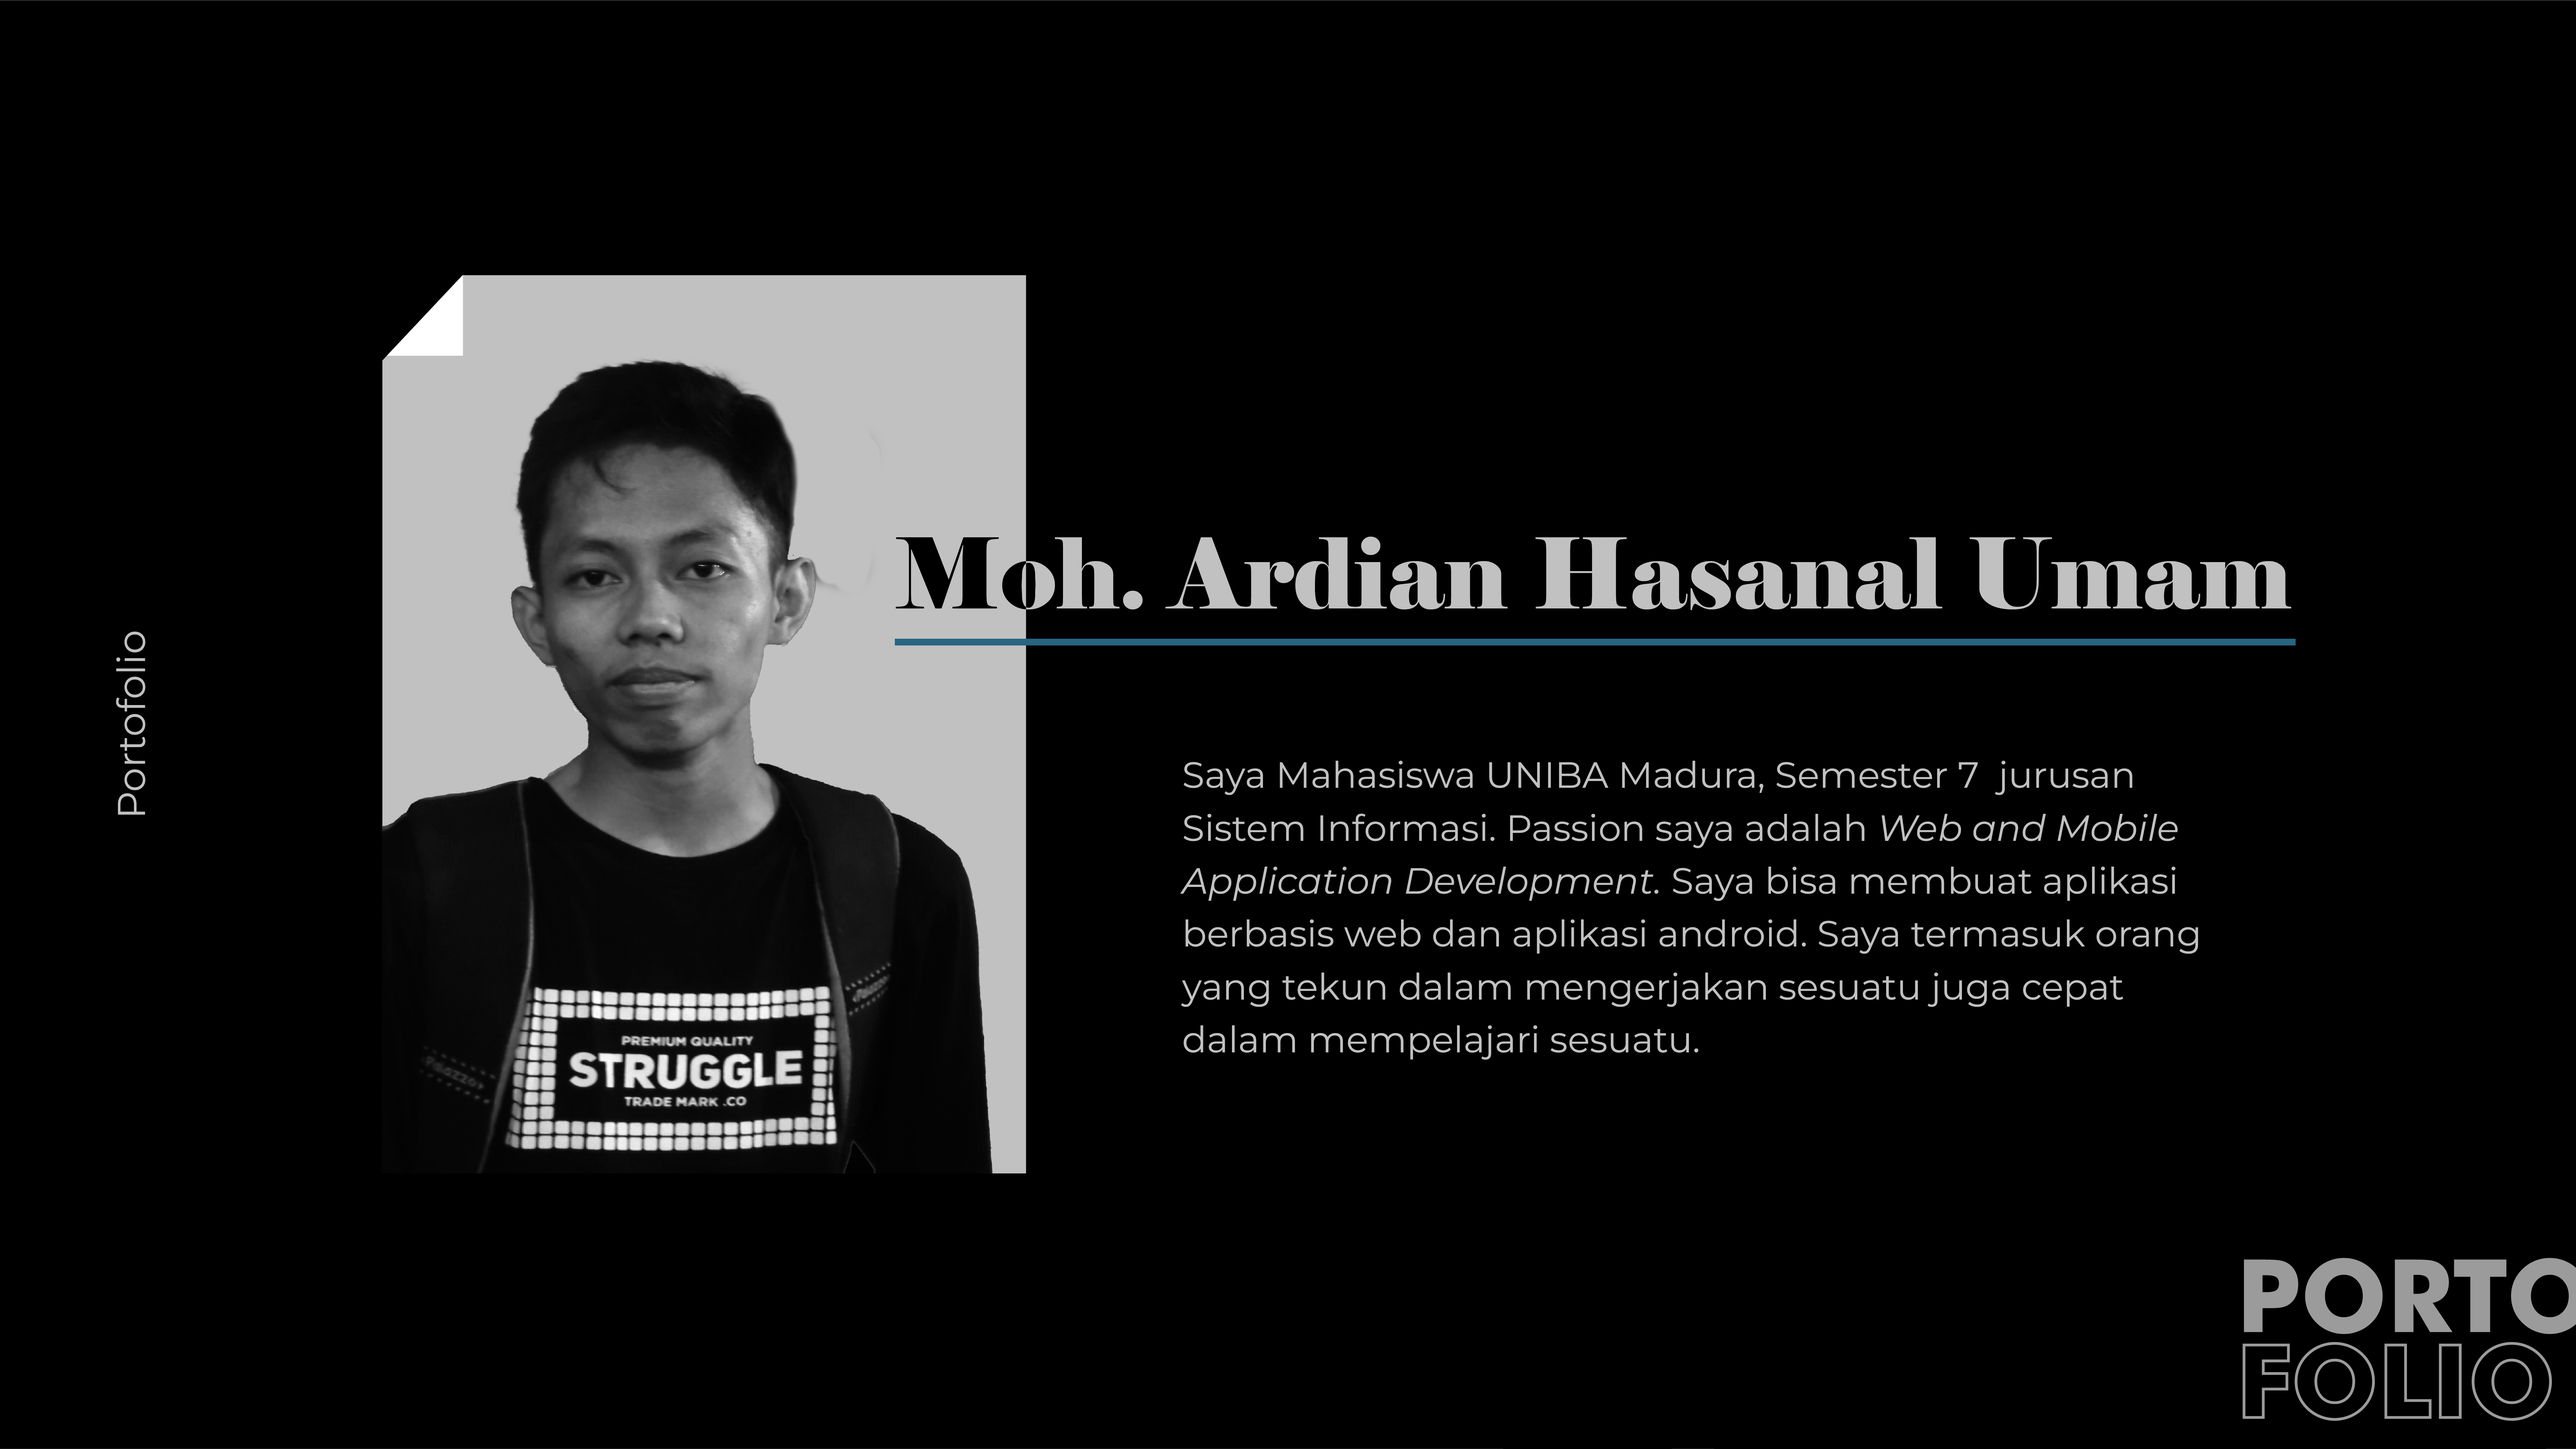
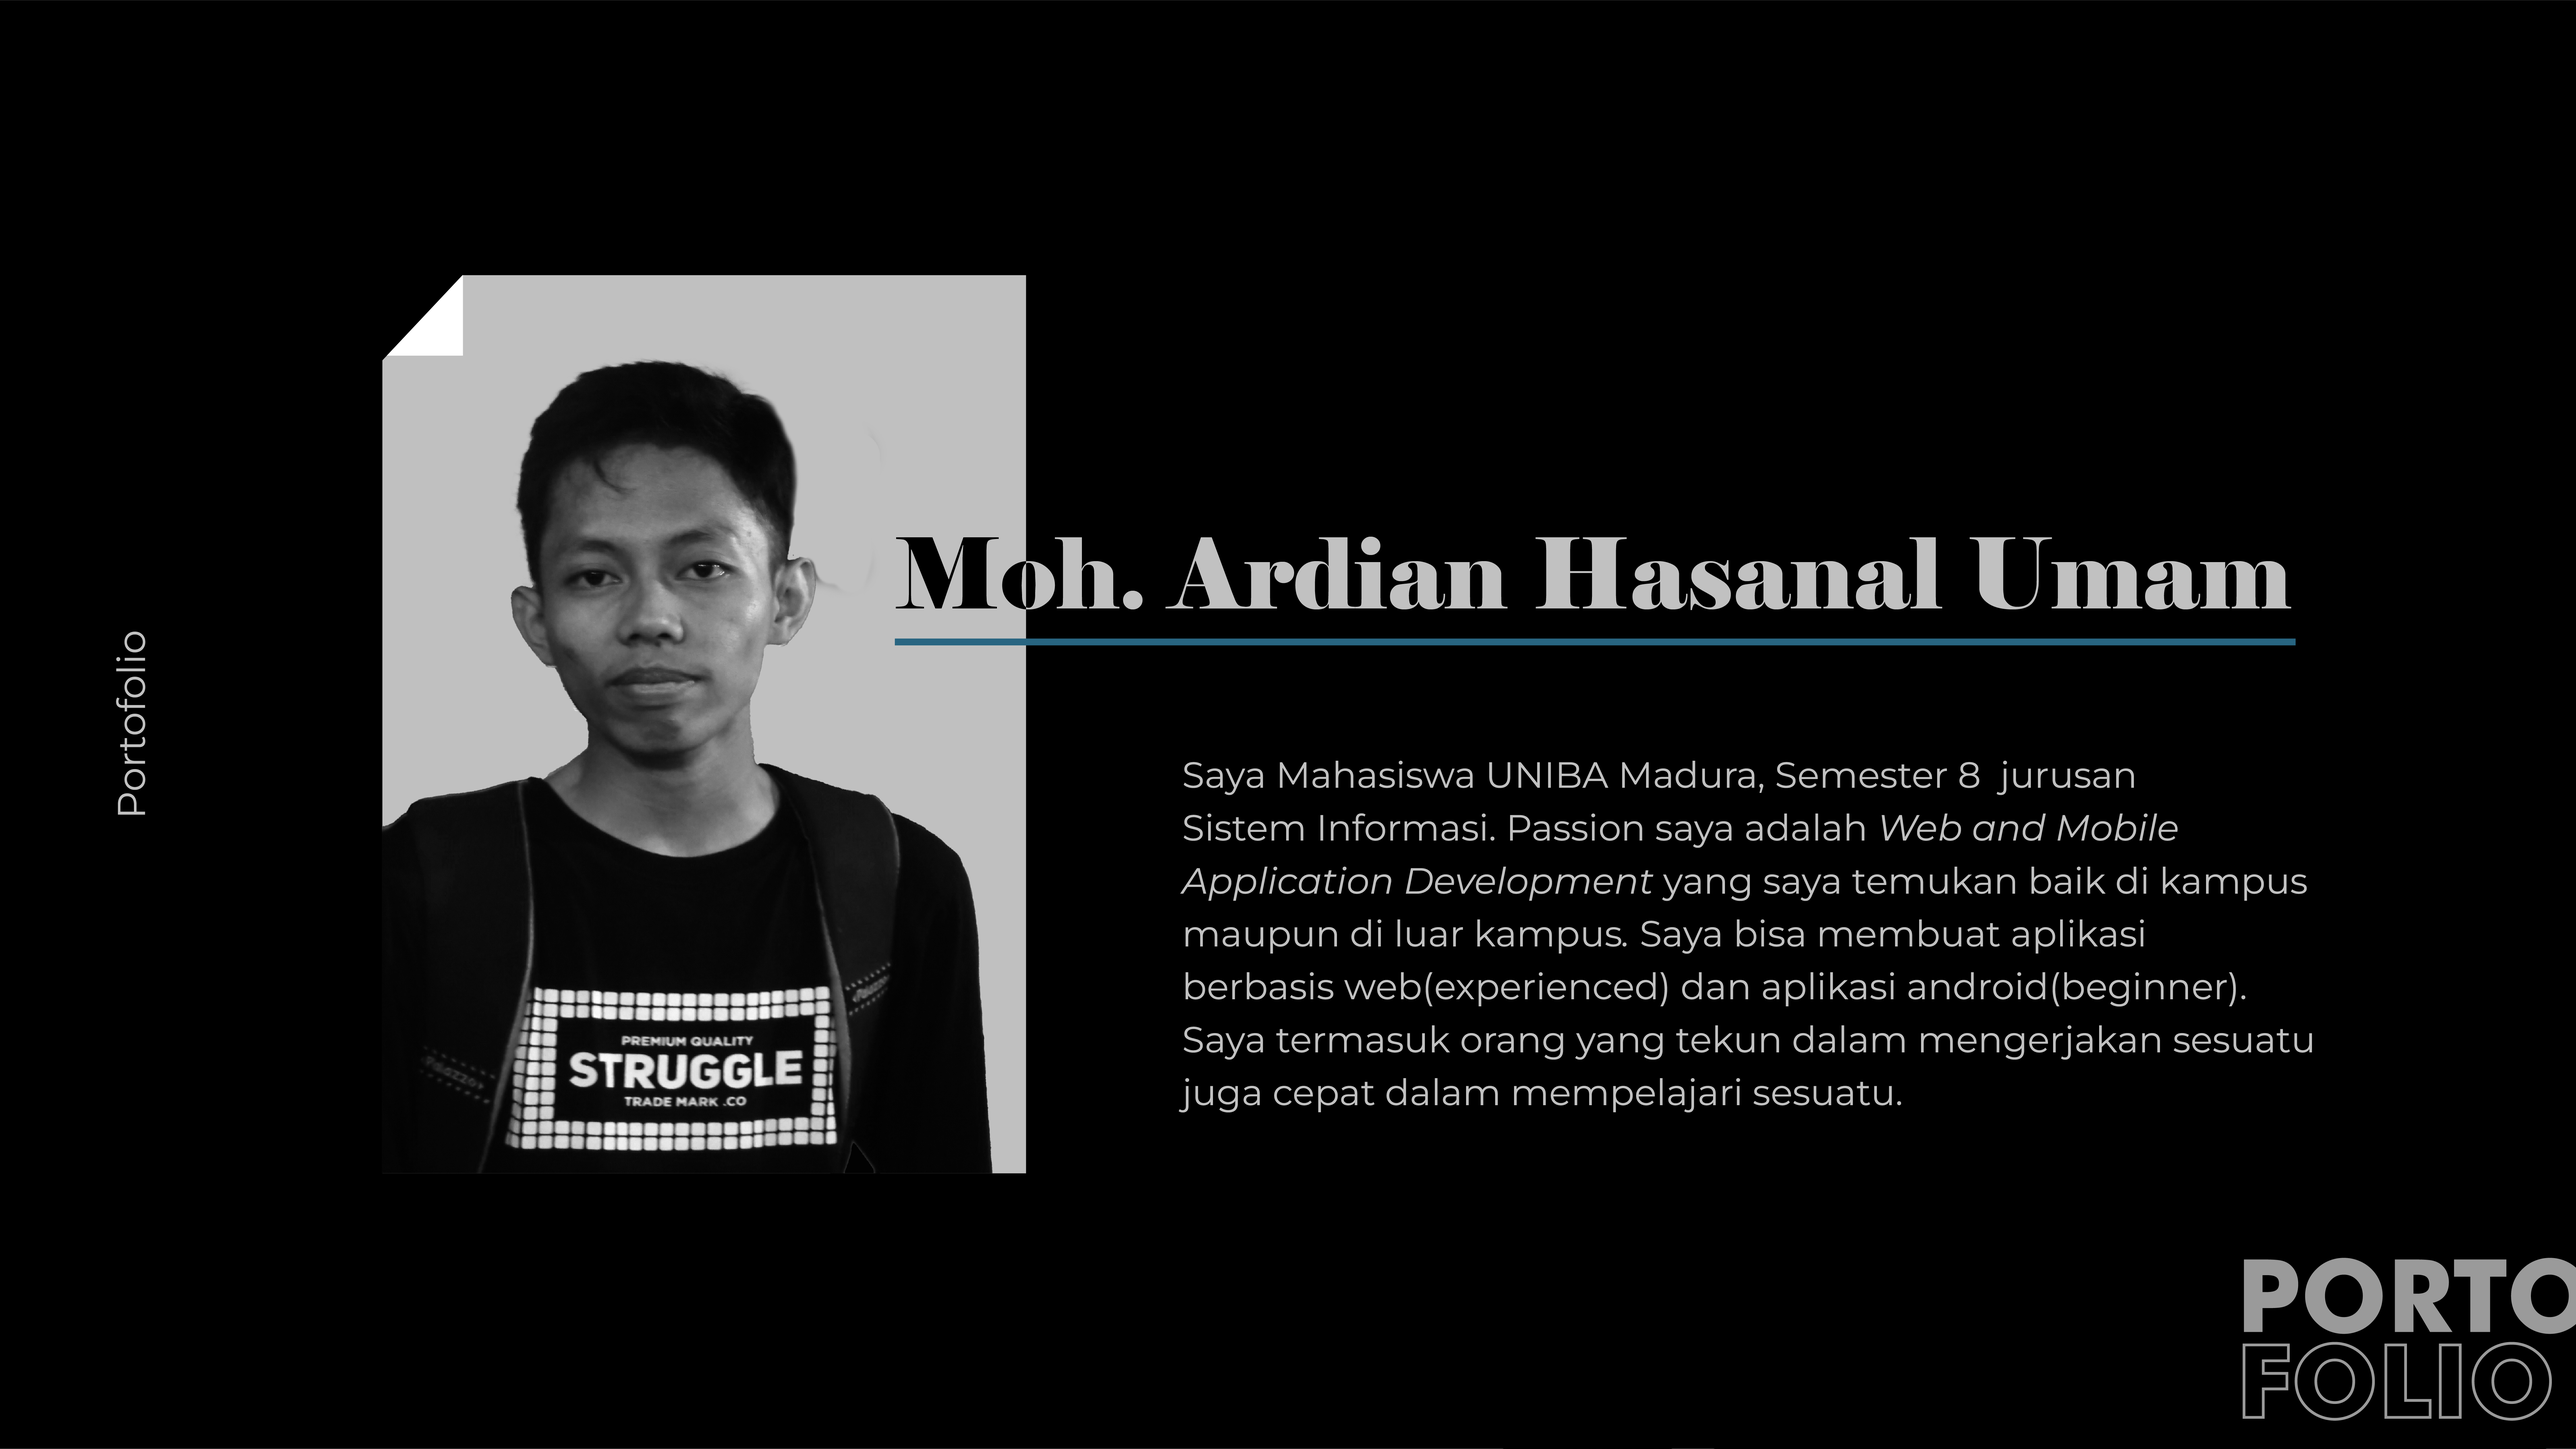
v.2
typo, add skills, update photo and portofolio

Changed region(s): [[0.4688, 0.591, 0.875, 0.7776], [0.8438, 0.7154, 0.875, 0.7465], [0.7812, 0.5288, 0.8125, 0.5599]]

diff --git a/index.html b/index.html
@@ -96,7 +96,7 @@
             >
               <img
                 alt="foto_profil"
-                src="img/ppbnw.png"
+                src="img/bnw.png"
                 class="mx-auto object-cover rounded-lg w-30 h-40 lg:h-80 lg:w-60 bg-neutral-500/70 backdrop-blur-lg [ border-[1px] border-solid border-white border-opacity-30 ]"
               />
             </span>
@@ -111,7 +111,7 @@
               perpindahan database dari database konvensional menggunakan
               aplikasi pengolah angka ke aplikasi barbasis web. Dalam ranah
               website saya mempunyai keterampilan 50/50 antara front-end dan
-              back-end. Selain saya juga bisa membuat aplikasi android
+              back-end. Selain itu saya juga bisa membuat aplikasi android
               menggunakan bahasa pemrograman Java. Last but not least saya juga
               seorang Graphic Designer, mulai dari desain cetak, desain digital,
               sampai desain UI/UX.
@@ -119,57 +119,77 @@
             <div class="space-y-5 space-x-3">
               <h1 class="text-sm md:text-lg font-bold">Skills</h1>
               <h1
-                class="px-3 py-1 bg-white/50 border-[1px] border-solid border-white inline-block rounded-full"
-              >
-                HTML
-              </h1>
-              <h1
-                class="px-3 py-1 bg-white/50 border-[1px] border-solid border-white inline-block rounded-full"
-              >
-                CSS
-              </h1>
-              <h1
-                class="px-3 py-1 bg-white/50 border-[1px] border-solid border-white inline-block rounded-full"
+                class="px-3 py-1 bg-white/10 border-[1px] border-solid border-white inline-block rounded-full"
               >
                 PHP
               </h1>
               <h1
-                class="px-3 py-1 bg-white/50 border-[1px] border-solid border-white inline-block rounded-full"
-              >
-                Java
-              </h1>
-              <h1
-                class="px-3 py-1 bg-white/50 border-[1px] border-solid border-white inline-block rounded-full"
-              >
-                JavaScript
-              </h1>
-              <h1
-                class="px-3 py-1 bg-white/50 border-[1px] border-solid border-white inline-block rounded-full"
-              >
-                TailwindCSS
-              </h1>
-              <h1
-                class="px-3 py-1 bg-white/50 border-[1px] border-solid border-white inline-block rounded-full"
+                class="px-3 py-1 bg-white/10 border-[1px] border-solid border-white inline-block rounded-full"
               >
                 Laravel
               </h1>
               <h1
-                class="px-3 py-1 bg-white/50 border-[1px] border-solid border-white inline-block rounded-full"
+                class="px-3 py-1 bg-white/10 border-[1px] border-solid border-white inline-block rounded-full"
+              >
+                Java
+              </h1>
+              <h1
+                class="px-3 py-1 bg-white/10 border-[1px] border-solid border-white inline-block rounded-full"
+              >
+                JavaScript
+              </h1>
+              <h1
+                class="px-3 py-1 bg-white/10 border-[1px] border-solid border-white inline-block rounded-full"
+              >
+                HTML
+              </h1>
+              <h1
+                class="px-3 py-1 bg-white/10 border-[1px] border-solid border-white inline-block rounded-full"
+              >
+                CSS
+              </h1>
+              <h1
+                class="px-3 py-1 bg-white/10 border-[1px] border-solid border-white inline-block rounded-full"
+              >
+                TailwindCSS
+              </h1>
+              <h1
+                class="px-3 py-1 bg-white/10 border-[1px] border-solid border-white inline-block rounded-full"
+              >
+                Ajax
+              </h1>
+              <h1
+                class="px-3 py-1 bg-white/10 border-[1px] border-solid border-white inline-block rounded-full"
+              >
+                jQuery
+              </h1>
+              <h1
+                class="px-3 py-1 bg-white/10 border-[1px] border-solid border-white inline-block rounded-full"
+              >
+                DataTable
+              </h1>
+              <h1
+                class="px-3 py-1 bg-white/10 border-[1px] border-solid border-white inline-block rounded-full"
+              >
+                Bootstrap
+              </h1>
+              <h1
+                class="px-3 py-1 bg-white/10 border-[1px] border-solid border-white inline-block rounded-full"
               >
                 SweetAlert
               </h1>
               <h1
-                class="px-3 py-1 bg-white/50 border-[1px] border-solid border-white inline-block rounded-full"
+                class="px-3 py-1 bg-white/10 border-[1px] border-solid border-white inline-block rounded-full"
               >
                 Illustrator
               </h1>
               <h1
-                class="px-3 py-1 bg-white/50 border-[1px] border-solid border-white inline-block rounded-full"
+                class="px-3 py-1 bg-white/10 border-[1px] border-solid border-white inline-block rounded-full"
               >
                 Photoshop
               </h1>
               <h1
-                class="px-3 py-1 bg-white/50 border-[1px] border-solid border-white inline-block rounded-full"
+                class="px-3 py-1 bg-white/10 border-[1px] border-solid border-white inline-block rounded-full"
               >
                 Figma
               </h1>
@@ -188,7 +208,9 @@
           <img src="img/portofolio-03.jpg" alt="" />
           <img src="img/portofolio-04.jpg" alt="" />
           <img src="img/portofolio-05.jpg" alt="" />
-          <img src="img/portofolio-06.jpg" alt="" class="rounded-b-2xl" />
+          <img src="img/portofolio-06.jpg" alt="" />
+          <img src="img/portofolio-07.jpg" alt="" />
+          <img src="img/portofolio-08.jpg" alt="" class="rounded-b-2xl" />
         </div>
       </div>
 

diff --git a/css/wind.css b/css/wind.css
@@ -529,40 +529,20 @@ video {
   bottom: 11rem;
 }
 
-.top-80 {
-  top: 20rem;
-}
-
-.left-16 {
-  left: 4rem;
-}
-
-.left-10 {
-  left: 2.5rem;
-}
-
-.left-12 {
-  left: 3rem;
-}
-
 .left-14 {
   left: 3.5rem;
+}
+
+.top-80 {
+  top: 20rem;
 }
 
 .z-10 {
   z-index: 10;
 }
 
-.z-20 {
-  z-index: 20;
-}
-
 .float-right {
   float: right;
-}
-
-.float-left {
-  float: left;
 }
 
 .m-6 {
@@ -617,18 +597,6 @@ video {
   height: 10rem;
 }
 
-.h-screen {
-  height: 100vh;
-}
-
-.h-full {
-  height: 100%;
-}
-
-.h-16 {
-  height: 4rem;
-}
-
 .h-6 {
   height: 1.5rem;
 }
@@ -639,14 +607,6 @@ video {
 
 .w-64 {
   width: 16rem;
-}
-
-.w-full {
-  width: 100%;
-}
-
-.w-16 {
-  width: 4rem;
 }
 
 .w-6 {
@@ -815,6 +775,10 @@ video {
   background-color: rgb(255 255 255 / var(--tw-bg-opacity));
 }
 
+.bg-white\/10 {
+  background-color: rgb(255 255 255 / 0.1);
+}
+
 .bg-gradient-to-br {
   background-image: linear-gradient(to bottom right, var(--tw-gradient-stops));
 }
@@ -842,16 +806,8 @@ video {
   padding: 2rem;
 }
 
-.p-5 {
-  padding: 1.25rem;
-}
-
 .p-3 {
   padding: 0.75rem;
-}
-
-.p-2 {
-  padding: 0.5rem;
 }
 
 .px-3 {
@@ -973,10 +929,6 @@ video {
 }
 
 @media (min-width: 768px) {
-  .md\:left-16 {
-    left: 4rem;
-  }
-
   .md\:mx-36 {
     margin-left: 9rem;
     margin-right: 9rem;
